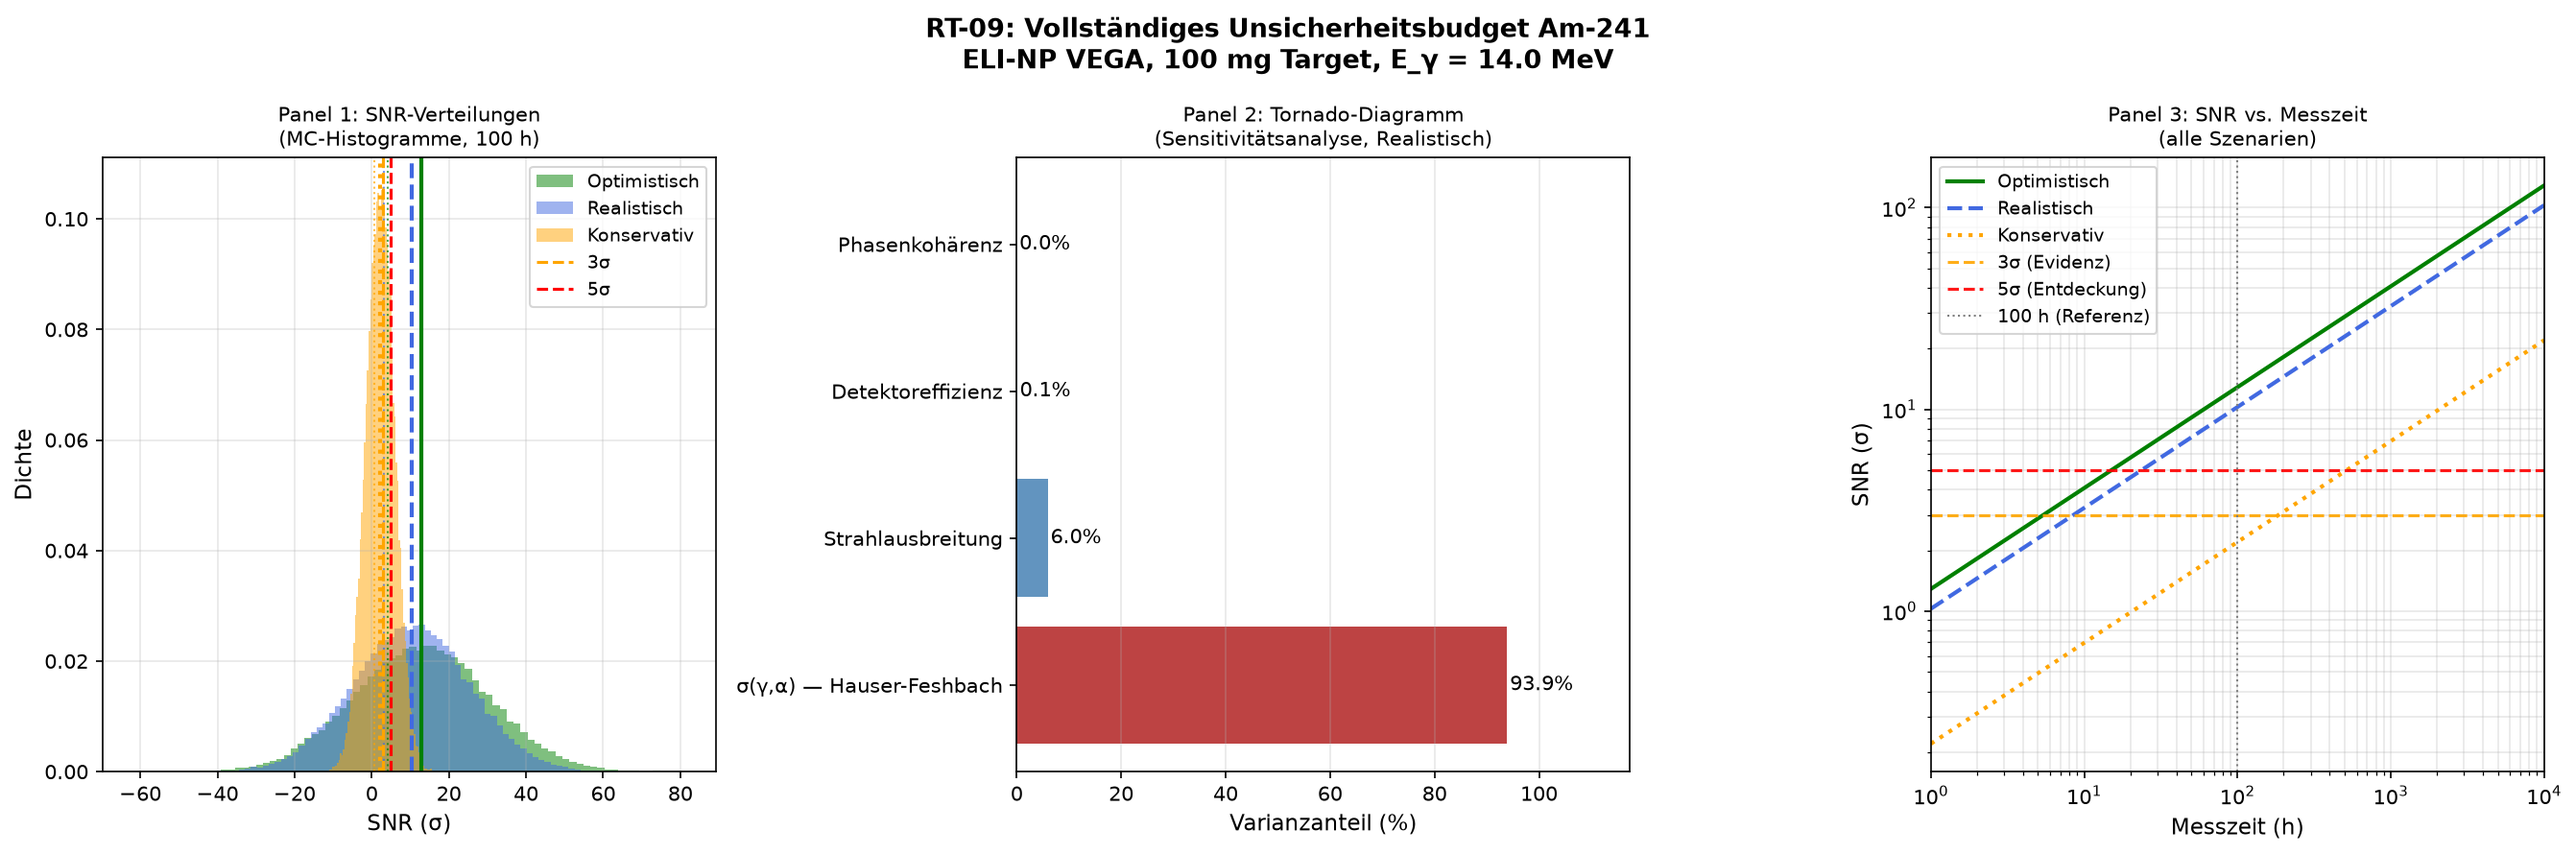
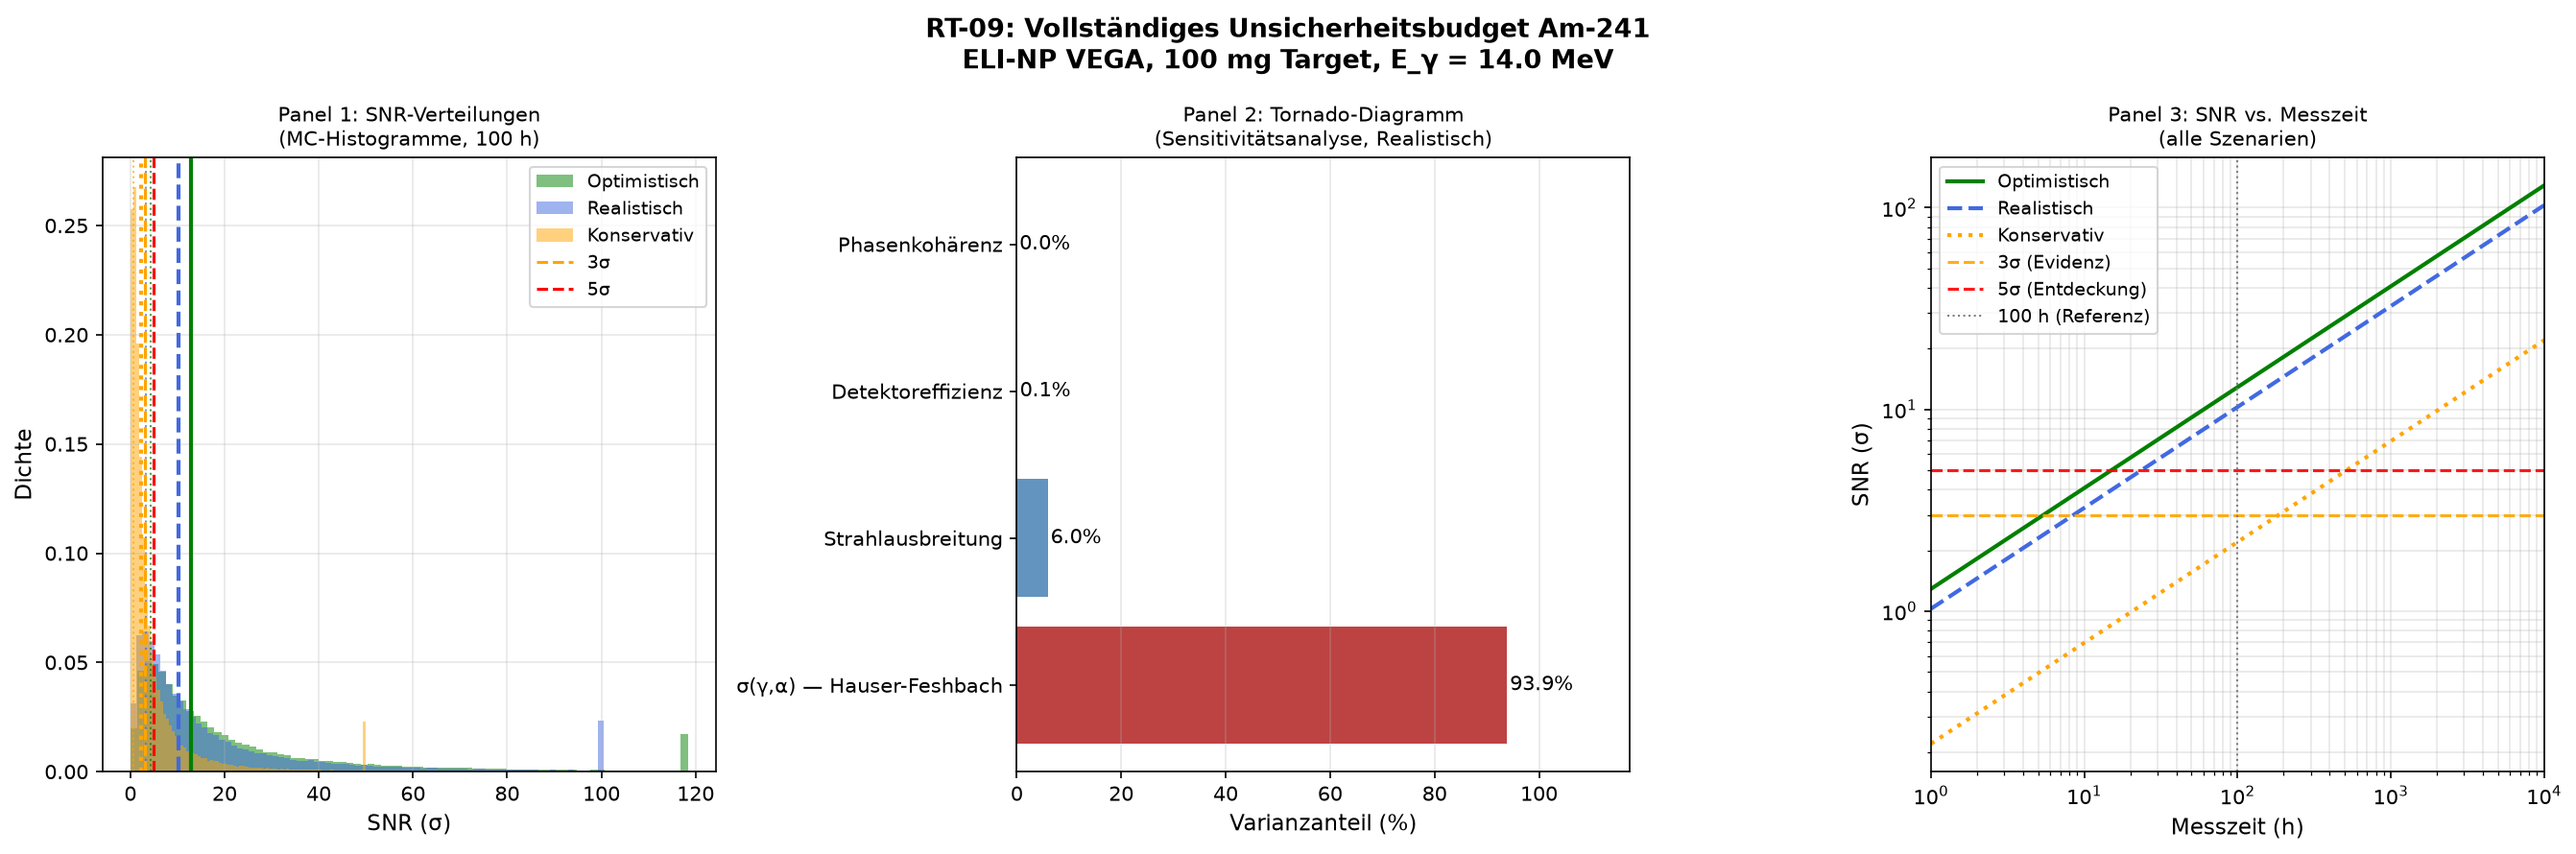
Apply remaining changes

Changed region(s): [[0.0, 0.2124, 0.2783, 0.9404]]

diff --git a/de/fakten/konzepte/resonanzreaktor/simulation/experiment_am241.py b/de/fakten/konzepte/resonanzreaktor/simulation/experiment_am241.py
@@ -610,7 +610,8 @@ def uncertainty_budget_am241(
     kappa_coh_samples = np.clip(kappa_coh_samples, 0.0, 1.0)
 
     # Effektiver Photonenfluss auf Target (Strahlausbreitung)
-    # Nominale Strahlbreite aus Facility
+    # Annahme: Strahlquerschnitt = π · σ_beam² (Kreisfläche mit Radius σ_beam).
+    # Facility.beam_area_cm2 ist die nominale Strahlquerschnittsfläche.
     beam_sigma_nominal = np.sqrt(beam_area_nominal / PI)
     Phi_eff_samples = Phi_nominal * (beam_sigma_nominal**2 / beam_sigma_samples**2)
 
@@ -666,7 +667,6 @@ def uncertainty_budget_am241(
     central_eps = detector_efficiency
     central_bs = beam_sigma_cm
     central_kappa = phase_coherence
-    Phi_central = Phi_nominal * (beam_sigma_nominal**2 / central_bs**2)
 
     def _snr_from_params(s_pa, eps, bs, kappa):
         bs_safe = np.maximum(np.asarray(bs, dtype=float), 1e-6)
@@ -736,6 +736,7 @@ def uncertainty_budget_am241(
         "contributions": contributions_rel,
         "falsification_feasible": falsification_feasible,
         "n_mc": n_mc,
+        "_snr_samples": SNR_samples,  # Rohe MC-Stichproben für Visualisierung
     }
 
 

diff --git a/en/facts/concepts/resonance_reactor/simulation/experiment_am241.py b/en/facts/concepts/resonance_reactor/simulation/experiment_am241.py
@@ -606,6 +606,8 @@ def uncertainty_budget_am241(
     kappa_coh_samples = np.clip(kappa_coh_samples, 0.0, 1.0)
 
     # Effective photon flux on target (beam spread)
+    # Assumption: beam cross section = π · σ_beam² (circle with radius σ_beam).
+    # Facility.beam_area_cm2 is the nominal beam cross-sectional area.
     beam_sigma_nominal = np.sqrt(beam_area_nominal / PI)
     Phi_eff_samples = Phi_nominal * (beam_sigma_nominal**2 / beam_sigma_samples**2)
 
@@ -720,8 +722,8 @@ def uncertainty_budget_am241(
         "R_median": R_median,
         "R_p16": R_p16,
         "R_p84": R_p84,
-        "S_koh_median": S_coh_median,
-        "S_ink_median": S_inc_median,
+        "S_coh_median": S_coh_median,
+        "S_inc_median": S_inc_median,
         "B_median": B_median,
         "t_for_3sigma": t_for_3sigma,
         "t_for_5sigma": t_for_5sigma,
@@ -729,6 +731,7 @@ def uncertainty_budget_am241(
         "contributions": contributions_rel,
         "falsification_feasible": falsification_feasible,
         "n_mc": n_mc,
+        "_snr_samples": SNR_samples,  # Raw MC samples for visualization
     }
 
 

diff --git a/de/fakten/konzepte/resonanzreaktor/analyse/rt09_fehlerbudget.py b/de/fakten/konzepte/resonanzreaktor/analyse/rt09_fehlerbudget.py
@@ -190,16 +190,15 @@ def plot_results(results: dict) -> None:
 
     # --- Panel 1: SNR-Histogramme ---
     ax = axes[0]
-    n_mc_plot = 50_000
-    for name, params in SZENARIEN.items():
+    for name in SZENARIEN:
         r = results[name]
-        # Rekonstruiere SNR-Stichproben für Histogramm (vereinfacht)
-        rng = np.random.default_rng(seed=99)
-        snr_ref = r['SNR_median']
-        snr_std = (r['SNR_p84'] - r['SNR_p16']) / 2.0
-        snr_samples = rng.normal(snr_ref, snr_std, n_mc_plot)
+        snr_samples = r.get('_snr_samples')
+        if snr_samples is None or len(snr_samples) == 0:
+            continue
+        # Auf +/- 10σ um den Median clippen für übersichtliche Darstellung
+        snr_plot = np.clip(snr_samples, -5, max(r['SNR_p84'] * 3, 50))
         ax.hist(
-            snr_samples, bins=80, density=True, alpha=0.5,
+            snr_plot, bins=80, density=True, alpha=0.5,
             color=colors[name], label=name,
         )
         ax.axvline(r['SNR_median'], color=colors[name], linewidth=2,

diff --git a/en/facts/concepts/resonance_reactor/analyse/rt09_uncertainty_budget.py b/en/facts/concepts/resonance_reactor/analyse/rt09_uncertainty_budget.py
@@ -190,15 +190,15 @@ def plot_results(results: dict) -> None:
 
     # --- Panel 1: SNR histograms ---
     ax = axes[0]
-    n_mc_plot = 50_000
-    for name, params in SCENARIOS.items():
+    for name in SCENARIOS:
         r = results[name]
-        rng = np.random.default_rng(seed=99)
-        snr_ref = r['SNR_median']
-        snr_std = (r['SNR_p84'] - r['SNR_p16']) / 2.0
-        snr_samples = rng.normal(snr_ref, snr_std, n_mc_plot)
+        snr_samples = r.get('_snr_samples')
+        if snr_samples is None or len(snr_samples) == 0:
+            continue
+        # Clip to reasonable range for display
+        snr_plot = np.clip(snr_samples, -5, max(r['SNR_p84'] * 3, 50))
         ax.hist(
-            snr_samples, bins=80, density=True, alpha=0.5,
+            snr_plot, bins=80, density=True, alpha=0.5,
             color=colors[name], label=name,
         )
         ax.axvline(r['SNR_median'], color=colors[name], linewidth=2,
